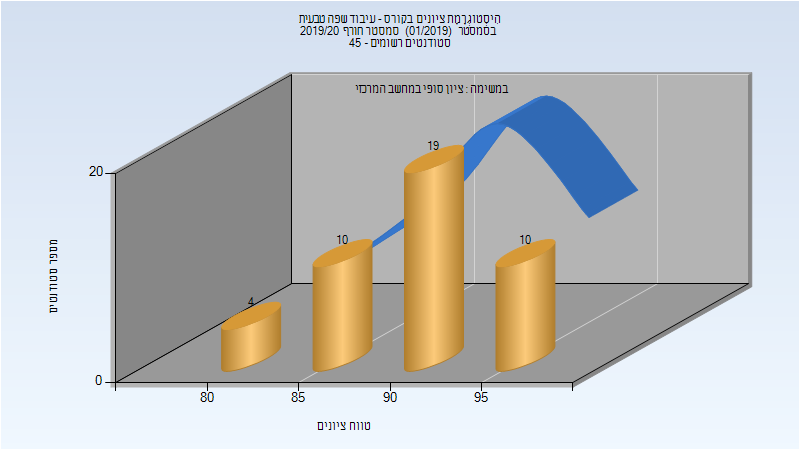
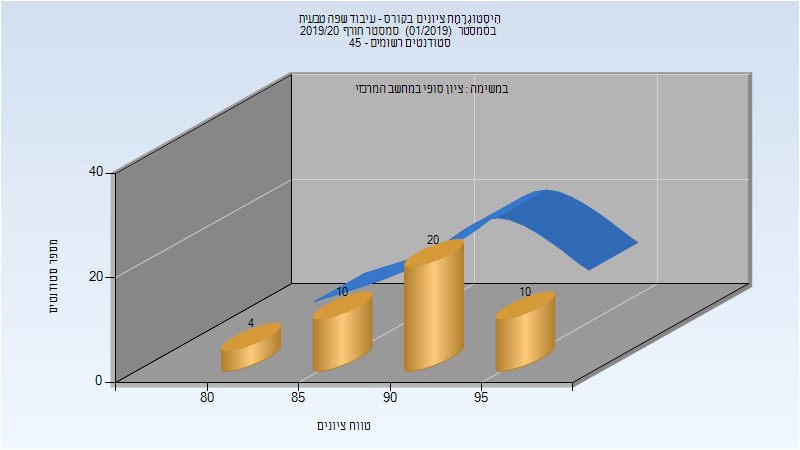
Deploy michael-maltsev/technion-histograms to github.com/michael-maltsev/technion-histograms.git:gh-pages

Changed region(s): [[0.25, 0.2178, 0.8125, 0.7778], [0.0938, 0.5911, 0.1562, 0.6222], [0.0938, 0.3733, 0.125, 0.4044]]

diff --git a/097215/index.html b/097215/index.html
@@ -222,12 +222,12 @@
 </thead>
 <tbody>
 <tr>
-<td>43</td>
-<td>43/0</td>
+<td>44</td>
+<td>44/0</td>
 <td>100</td>
 <td>84</td>
 <td>98</td>
-<td>91.163</td>
+<td>91.182</td>
 <td>91</td>
 </tr>
 </tbody>

diff --git a/236781/index.html b/236781/index.html
@@ -52,12 +52,12 @@
 </thead>
 <tbody>
 <tr>
-<td>64</td>
-<td>63/1</td>
+<td>66</td>
+<td>65/1</td>
 <td>98</td>
 <td>92</td>
 <td>99</td>
-<td>96.397</td>
+<td>96.385</td>
 <td>96</td>
 </tr>
 </tbody>

diff --git a/236805/index.html b/236805/index.html
@@ -98,7 +98,7 @@
 <td>100</td>
 <td>92</td>
 <td>100</td>
-<td>95.738</td>
+<td>95.857</td>
 <td>96</td>
 </tr>
 </tbody>

diff --git a/097215/README.md b/097215/README.md
@@ -66,7 +66,7 @@
 
 | סטודנטים | עברו/נכשלו | אחוז עוברים | ציון מינימלי | ציון מקסימלי | ממוצע | חציון |
 | ---- | ---- | ---- | ---- | ---- | ---- | ---- |
-| 43 | 43/0 | 100 | 84 | 98 | 91.163 | 91 |
+| 44 | 44/0 | 100 | 84 | 98 | 91.182 | 91 |
 
 ## אביב 2020
 

diff --git a/236805/README.md b/236805/README.md
@@ -26,5 +26,5 @@
 
 | סטודנטים | עברו/נכשלו | אחוז עוברים | ציון מינימלי | ציון מקסימלי | ממוצע | חציון |
 | ---- | ---- | ---- | ---- | ---- | ---- | ---- |
-| 42 | 42/0 | 100 | 92 | 100 | 95.738 | 96 |
+| 42 | 42/0 | 100 | 92 | 100 | 95.857 | 96 |
 

diff --git a/236781/README.md b/236781/README.md
@@ -12,5 +12,5 @@
 
 | סטודנטים | עברו/נכשלו | אחוז עוברים | ציון מינימלי | ציון מקסימלי | ממוצע | חציון |
 | ---- | ---- | ---- | ---- | ---- | ---- | ---- |
-| 64 | 63/1 | 98 | 92 | 99 | 96.397 | 96 |
+| 66 | 65/1 | 98 | 92 | 99 | 96.385 | 96 |
 
